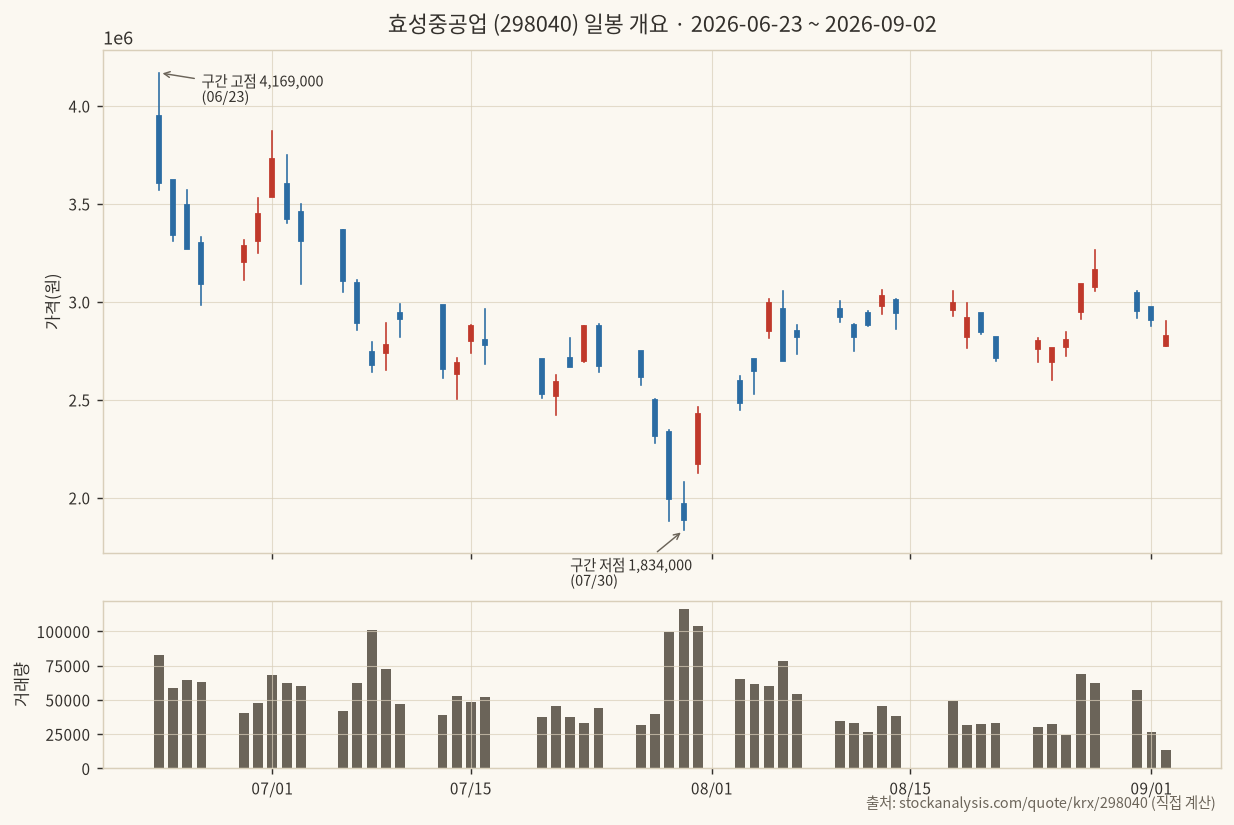
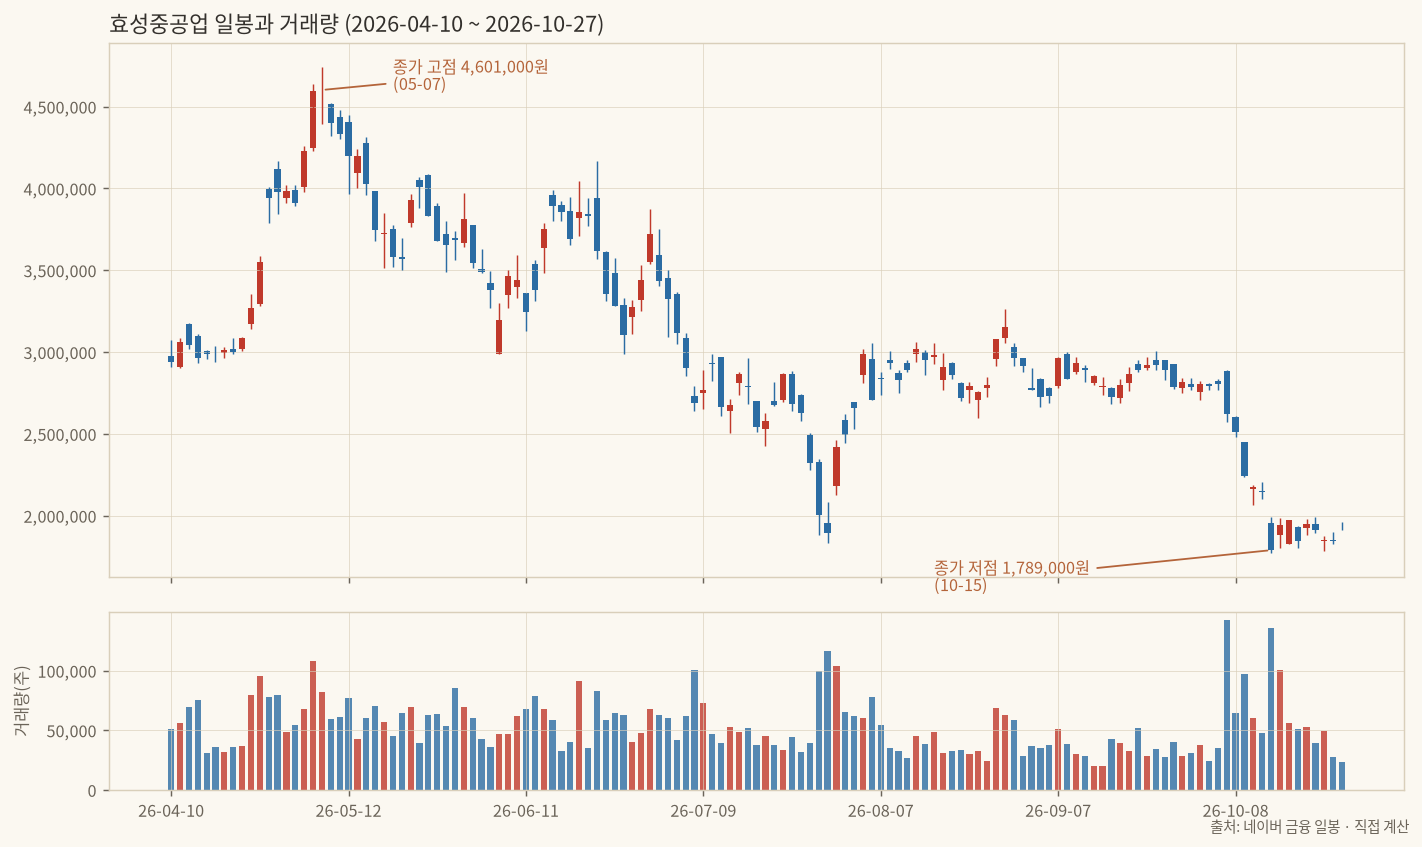
study(N70): publish 효성중공업 Price Oscillator

diff --git a/content/study/hyosung-price-oscillator.md b/content/study/hyosung-price-oscillator.md
@@ -1,0 +1,139 @@
+---
+title: "효성중공업, 고점에서 61% 빠진 구간에서 제로선 교차 아홉 번 중 일곱 번이 빗나갔다: 프라이스 오실레이터 (Price Oscillator: Hyosung Heavy Industries, Seven of Nine Zero-Line Crosses Missed in a 61% Slide)"
+description: "효성중공업 일봉 133개로 Price Oscillator(10, 21)를 직접 계산해 제로선 교차 아홉 번의 5일·10일 뒤 성적을 전수 점검했다. Seven of nine zero-line crosses missed on Hyosung Heavy Industries."
+date: 2026-10-27T08:30:00+09:00
+draft: false
+markets: ["stock"]
+tags: ["지표스터디", "기술적지표", "코스피", "자동매매", "에너지", "효성중공업"]
+summary: "효성중공업의 Price Oscillator(10, 21) 제로선 교차 9번 중 5거래일 뒤 방향이 맞은 것은 2번뿐이었다."
+---
+
+## 서론: 왜 이 지표, 왜 이 종목
+
+Price Oscillator는 빠른 이동평균과 느린 이동평균의 차이를 느린 쪽 값으로 나눠 퍼센트로 바꾼 지표다. 이 글에서는 PPO라고 줄여 부른다. MACD와 닮았는데, 차이를 원 단위로 두지 않고 비율로 바꾼다는 점이 다르다. 주가가 150만 원이든 450만 원이든 같은 눈금으로 읽을 수 있다. 값이 0보다 크면 단기 평균이 장기 평균 위에 있고, 0보다 작으면 아래에 있다.
+
+효성중공업은 이 지표를 시험하기에 까다로운 구간을 지나왔다. 2026년 5월 7일 종가 4,601,000원까지 올랐다가 10월 15일 1,789,000원까지 내려왔다. 종가 기준으로 61.12% 빠졌다. 중간에 6월 중순의 반등, 8월의 박스권, 9월의 지루한 횡보가 섞여 있다. 추세가 분명한 구간과 방향이 없는 구간이 한 데이터에 같이 들어 있어서, 교차 신호가 어디서 통하고 어디서 무너지는지 보기 좋다.
+
+<div class="term">
+<div class="term-bar"><i></i><i></i><i></i><em>이 글의 데이터 범위</em></div>
+<pre><code><span class="w">종목</span>      효성중공업 (298040)
+<span class="w">구간</span>      2026-04-10 ~ 2026-10-27 (일봉 133개)
+<span class="w">출처</span>      네이버 금융 일봉, 두 엔드포인트 교차검증분
+<span class="c">--------------------------------------------------</span>
+<span class="w">종가 최고</span>  4,601,000원 (05-07)   장중 4,742,000원
+<span class="w">종가 최저</span>  1,789,000원 (10-15)   장중 1,773,000원
+<span class="w">마지막 종가</span> 1,940,000원 (10-27)
+<span class="w">고점 대비</span>  종가 저점 -61.12%, 마지막 종가 -57.84%</code></pre>
+</div>
+
+> 이 글은 지표를 계산해 본 기록이다. 매수·매도 권유가 아니고, 투자 판단과 손익은 읽는 사람 몫이다.
+
+![효성중공업 일봉과 거래량](/img/study/hyosung-01-overview.png)
+
+마지막 봉(10월 27일)의 거래량은 23,585주로, 앞선 132거래일 평균 약 54,078주의 절반에 못 미친다. 장중 부분 세션일 수 있어서 이 봉의 거래량으로는 아무것도 주장하지 않는다. 종가 1,940,000원도 잠정치로 읽는다.
+
+## 본론: 계산, 실측, 검증
+
+### 계산식
+
+<div class="term">
+<div class="term-bar"><i></i><i></i><i></i><em>PPO 계산식</em></div>
+<pre><code><span class="w">k</span>        = 2 / (n + 1)
+<span class="w">EMA[t]</span>    = 종가[t] * k + EMA[t-1] * (1 - k)
+<span class="w">EMA 시작값</span> = 첫 n개 종가의 단순평균(SMA)
+<span class="c">--------------------------------------------------</span>
+<span class="w">PPO</span>      = (EMA(10) - EMA(21)) / EMA(21) * 100
+<span class="w">시그널</span>   = PPO의 EMA(9)
+<span class="w">히스토그램</span> = PPO - 시그널</code></pre>
+</div>
+
+numpy로 직접 구현했다. 지표 라이브러리는 쓰지 않았다. 지수이동평균(EMA)은 최근 값에 더 큰 가중을 주는 평균이고, 시작값은 첫 n개 종가의 단순평균(SMA)으로 잡았다.
+
+### 파라미터를 이렇게 골랐다
+
+빠른 선 10, 느린 선 21로 정했다. 10은 영업일 기준 2주, 21은 한 달에 해당한다. 한 달 대 2주라는 구분이 직관적이고, 일봉 133개라는 짧은 표본에서 느린 선을 더 길게 잡으면 쓸 수 있는 값이 너무 줄어든다. 시그널은 관행대로 9다. 이 숫자들은 결과를 보기 전에 먼저 정했다. 결과가 나쁘게 나와도 파라미터를 다시 고르지 않고 그대로 싣는다. 대신 뒤에서 다른 조합 둘과 비교한다.
+
+### 예열 구간 때문에 값이 줄어든다
+
+EMA(21)은 종가 21개가 모여야 시작값이 생긴다. 그래서 PPO가 처음 나오는 날은 5월 12일, 일봉 21번째다. 133개 중 PPO가 있는 날은 113개뿐이다. 시그널은 PPO 위에 9개를 더 쌓아야 해서 105개다. 4월 10일부터 5월 11일까지 20거래일은 지표가 없다.
+
+첫 값도 조심해서 읽어야 한다. 5월 12일 PPO는 +14.09%인데, 이날 EMA(10)은 4,132,036원, EMA(21)은 3,621,714원이다. EMA(21)의 시작값이 4월 횡보 구간의 낮은 가격까지 섞인 첫 21개 종가의 평균이어서, 5월 초 급등분이 한꺼번에 벌어진 차이로 잡혔다. 이 값은 신호로 읽지 않는다. 예열이 막 끝난 날의 값이어서, 이후 교차 집계에서도 이 날은 뺐다.
+
+![종가, EMA, PPO와 시그널](/img/study/hyosung-02-ppo-line.png)
+
+### 지금 값
+
+가장 낮은 PPO는 10월 26일의 -10.38%다. 이날 EMA(10)은 2,004,910원, EMA(21)은 2,237,025원이었다. 10월 27일에는 -9.82%로 조금 올라왔고 시그널은 -8.98%다. 히스토그램은 아직 음수다. 단기 평균이 장기 평균보다 약 10% 아래에 있다는 뜻이다. 7월 30일의 -10.17%와 비슷한 깊이다. 그때는 이 뒤에 8월 반등이 왔지만, 같은 모양이 반복된다고 보장하는 근거는 이 데이터에 없다.
+
+### 제로선 교차를 전수 나열한다
+
+PPO가 0을 위로 뚫으면 상향 교차, 아래로 뚫으면 하향 교차다. 5월 12일 이후 아홉 번 있었다. 상향 뒤에 5거래일(또는 10거래일) 종가가 올라 있으면 맞은 신호, 하향 뒤에 내려 있으면 맞은 신호로 쳤다. 거래비용은 넣지 않았다.
+
+<div class="term">
+<div class="term-bar"><i></i><i></i><i></i><em>제로선 교차 아홉 번 (PPO 10, 21)</em></div>
+<pre><code><span class="w">날짜        방향   종가         5일 뒤    10일 뒤</span>
+<span class="c">--------------------------------------------------</span>
+06-05      하향   3,380,000     <span class="g">-0.12%</span>    <span class="r">+14.05%</span>
+06-17      상향   3,855,000    <span class="r">-13.02%</span>     <span class="r">-3.55%</span>
+06-24      하향   3,353,000    <span class="r">+10.89%</span>    <span class="g">-19.80%</span>
+08-12      상향   2,892,000     <span class="r">-1.21%</span>     <span class="g">+6.47%</span>
+09-04      하향   2,732,000     <span class="r">+4.47%</span>     <span class="r">+5.71%</span>
+09-07      상향   2,965,000     <span class="r">-5.87%</span>     <span class="r">-1.59%</span>
+09-15      하향   2,725,000     <span class="r">+7.12%</span>     <span class="r">+2.94%</span>
+09-21      상향   2,918,000     <span class="r">-4.49%</span>    <span class="r">-13.85%</span>
+09-29      하향   2,819,000     <span class="g">-7.09%</span>    <span class="g">-36.54%</span>
+<span class="c">--------------------------------------------------</span>
+<span class="w">맞은 횟수</span>                       2 / 9      3 / 9</code></pre>
+</div>
+
+5거래일 기준으로 맞은 것은 6월 5일 하향과 9월 29일 하향 둘이다. 6월 5일은 -0.12%라서 맞았다고 부르기도 민망하다. 사실상 쓸 만한 적중은 9월 29일 하나다. 이날 2,819,000원에서 10월 15일 1,789,000원까지 10거래일 동안 -36.54%가 빠졌고, 그중 마지막 하루(2,142,000원에서 1,789,000원, -16.48%)가 낙폭의 상당 부분이다.
+
+빗나간 쪽이 더 많고 더 아프다. 6월 17일 상향 교차는 3,855,000원에서 사라는 신호였는데 5거래일 뒤 -13.02%였다. 6월 24일 하향 교차는 팔라는 신호였는데 5거래일 뒤 +10.89%로 반등했고, 10거래일 뒤에야 -19.80%로 신호가 맞는 모양이 됐다. 같은 신호가 5일에는 틀리고 10일에는 맞는다. 기간을 고르는 순간 성적표가 바뀐다는 이야기다.
+
+상향 교차 네 번(6월 17일, 8월 12일, 9월 7일, 9월 21일)은 5거래일 뒤가 전부 마이너스였다. 하락 추세 안에서 PPO가 잠깐 0 위로 올라오는 것은 이동평균이 평평해진 결과일 뿐 매수세가 돌아왔다는 증거가 되지 못했다.
+
+![제로선 교차 뒤 5일, 10일 수익률](/img/study/hyosung-03-signal-scoreboard.png)
+
+### 횡보 구간에서 신호가 어떻게 흩어졌나
+
+9월 4일부터 9월 29일까지 15거래일 사이에 교차가 다섯 번 나왔다. 하향, 상향, 하향, 상향, 하향 순서로 번갈아 나왔고 교차 시점의 PPO 값은 -0.32%와 +0.39% 사이였다. 종가는 2,725,000원에서 2,965,000원 사이에 갇혀 있었다. 이런 구간에서 PPO는 0 근처를 오가며 매번 신호를 낸다. 전체 113일 중 PPO의 절댓값이 1% 아래인 날이 38일이다. 세 날 중 한 날은 0선 위아래의 잡음 속에 있었다는 말이다.
+
+### 파라미터를 바꾸면
+
+<div class="term">
+<div class="term-bar"><i></i><i></i><i></i><em>민감도: 세 조합의 제로선 교차</em></div>
+<pre><code><span class="w">조합</span>        유효 PPO   교차   5일 적중   10일 적중
+<span class="c">--------------------------------------------------</span>
+(5, 20)     114개      15      4 / 15     4 / 15
+(10, 21)    113개       9      2 / 9      3 / 9
+(12, 26)    108개      11      1 / 11     2 / 11</code></pre>
+</div>
+
+빠르게 만들면 교차가 늘고 적중도 늘지만 비율은 4/15, 약 27%로 여전히 낮다. 12, 26으로 느리게 만들어도 나아지지 않는다. 교차 11번 중 5일 뒤 맞은 것이 1번이다. 어느 조합을 골라도 이 구간에서는 제로선 교차가 동전 던지기보다 못했다. 다만 표본이 아홉에서 열다섯 번이라 숫자 하나하나의 차이에 의미를 두기는 어렵다.
+
+![세 조합의 PPO 비교](/img/study/hyosung-04-sensitivity.png)
+
+### 교차 대신 수준을 본다면
+
+교차 대신 PPO가 -5% 아래인 상태를 보면 어떨까. 이런 날이 7월 9일 이후 28일 있었다. 그중 5거래일 뒤 값을 알 수 있는 23일의 평균 수익률은 +1.70%였고 오른 날은 11일이었다. 깊게 눌린 상태가 곧 추가 하락을 뜻하지도 않았고, 곧 반등을 뜻하지도 않았다. 결국 11 대 12, 거의 반반이다.
+
+### 봇 게이트에 넣을 것인가
+
+단독 진입 조건으로는 넣지 않는다. 이 구간의 성적이 그렇다. 쓴다면 필터 쪽이다. 예를 들어 PPO가 0 근처(절댓값 1% 이하)일 때는 다른 지표의 신호를 한 단계 낮춰서 보는 식이다. 횡보 구간 잡음을 걸러 주는 용도로는 가능성이 있다. 다만 그것도 이 한 종목, 이 133일에서 본 인상이다. 다른 종목과 다른 구간에서 따로 확인해야 한다.
+
+## 결론: 남는 것
+
+이번 구간에서 건질 것은 둘이다. 하나는 같은 신호의 성적이 5일이냐 10일이냐에 따라 뒤집힌다는 점이고, 다른 하나는 횡보에서 교차가 쏟아진다는 점이다. 지표가 틀렸다기보다 제로선 교차라는 규칙이 방향 없는 장을 못 견딘다고 보는 편이 맞다.
+
+PPO는 지금 -9.82%에 있다. 단기 평균이 장기 평균보다 한참 아래라는 사실을 그대로 보여 주고 있고, 이 값이 앞으로 0까지 돌아올지는 이 글에서 답하지 못한다. 10월 27일 봉이 부분 세션인지도 확정하지 못했다. 다음에 확인할 것은 하나다. 저점 1,789,000원 이후 EMA(10)이 꺾여 올라오는 속도가 EMA(21)이 내려오는 속도보다 빠른지, 며칠 더 지켜봐야 한다.
+
+면책: 이 글의 수치는 수집한 일봉으로 직접 계산한 값이며, 미래 수익을 보장하지 않는다. 투자 책임은 투자자 본인에게 있다.
+
+## 약어 풀이
+
+\* 이 글에 나온 영어 약어를 풀어 둔다.
+
+- **PPO** (Price Percentage Oscillator): 빠른 평균과 느린 평균의 차이를 느린 평균 대비 퍼센트로 나타낸 값. 이 글의 Price Oscillator다.
+- **EMA** (Exponential Moving Average): 최근 가격에 더 큰 가중을 주는 지수이동평균.
+- **SMA** (Simple Moving Average): 기간 내 종가를 같은 비중으로 평균한 단순이동평균. EMA의 시작값으로 썼다.
+- **MACD** (Moving Average Convergence Divergence): 두 EMA의 차이로 추세를 보는 지표. PPO와 달리 차이를 원 단위로 둔다.
